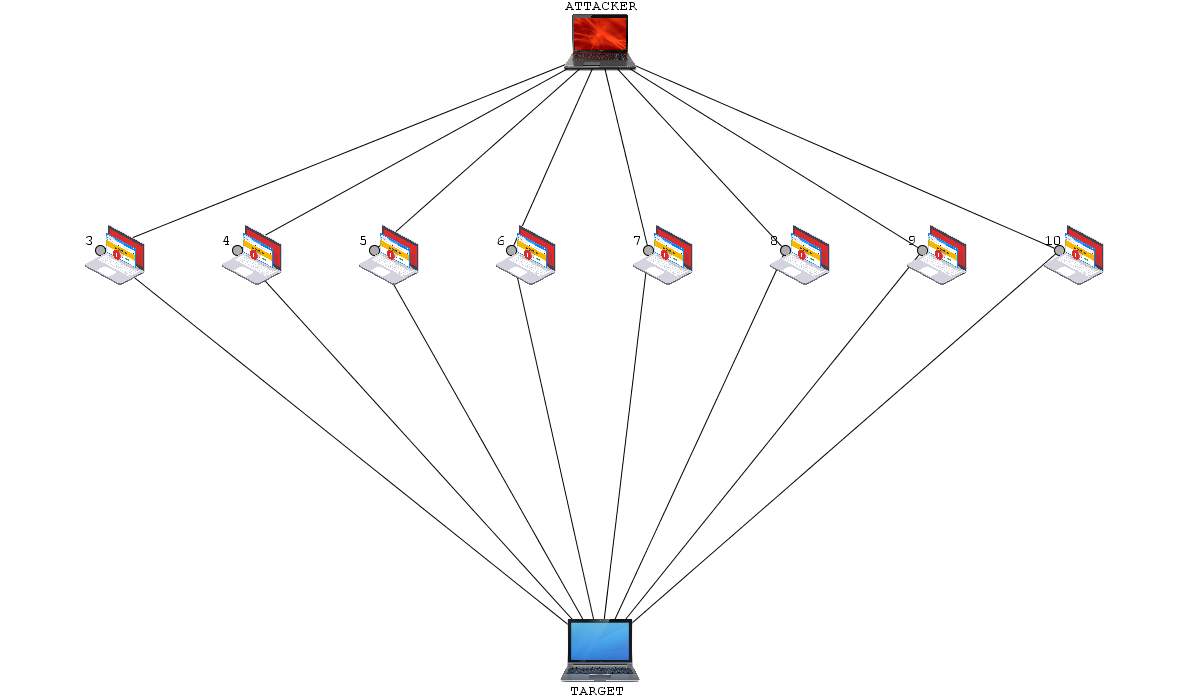
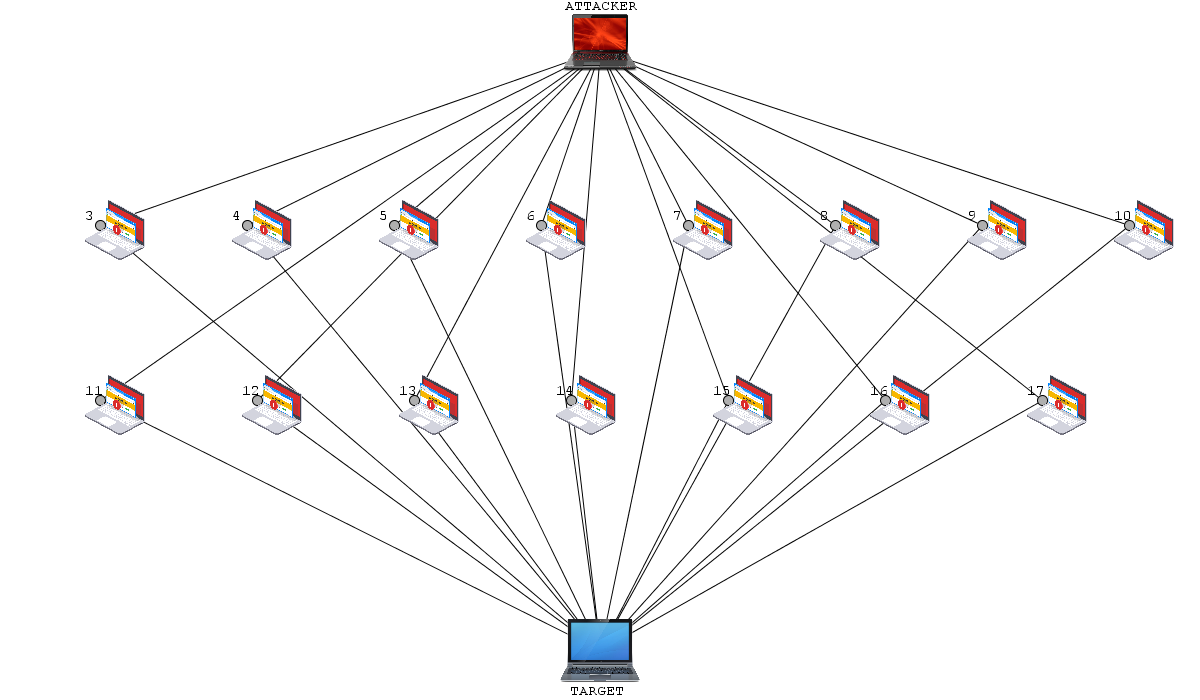
poruka

diff --git a/src/graphic/DDoSSimulation.java b/src/graphic/DDoSSimulation.java
@@ -40,7 +40,7 @@ public class DDoSSimulation {
 		//makePopUpStart();
 		makeWindow(true,true,true,true);
 		procGraphic = new ProcessingSimulation(this);
-		procGraphic.setNumOfSlaves(8);
+		procGraphic.setNumOfSlaves(15);
 		procGraphic.makeNetworkDefault();
 		runSimulation();
 	}
@@ -153,7 +153,7 @@ public class DDoSSimulation {
 												
 		cSlavesConfig.add(new JLabel("Number of slaves:"));		cSlavesConfig.add(numSlavesTF); 	cSlavesConfig.add(dummy7);
 		cSlavesConfig.add(new JLabel("Memory size:"));			cSlavesConfig.add(memoryTF); 		cSlavesConfig.add(dummy8);
-		cSlavesConfig.add(new JLabel("TTL time:"));				cSlavesConfig.add(ttlTF); 			cSlavesConfig.add(dummy9);
+		cSlavesConfig.add(new JLabel("Memory in time:"));		cSlavesConfig.add(ttlTF); 			cSlavesConfig.add(dummy9);
 		cSlavesConfig.add(new JLabel("Package size: "));		cSlavesConfig.add(packagesizeTF); 	cSlavesConfig.add(dummy10);
 																									
 		JButton submitConfiguration = new JButton("Configure");					

diff --git a/src/bin/Package.java b/src/bin/Package.java
@@ -34,11 +34,16 @@ public class Package {
 		int endX = edge.getNodeTo().getX();
 		int endY = edge.getNodeTo().getY();
 		
-		if (Math.ceil(cordX) == endX || Math.ceil(cordY) == endY)
+		//if (Math.ceil(cordX) == endX || Math.ceil(cordY) == endY)
+		//	return true;
+		//if ((cordX < (endX+5) && cordX > (endX-5)) && (cordY < (endY+5) && cordX > (endX-5)))
+		//	return true;
+		//else return false;
+		
+		if ( cordY >= endY )
 			return true;
-		if ((cordX < (endX+5) && cordX > (endX-5)) && (cordY < (endY+5) && cordX > (endX-5)))
-			return true;
-		else return false;
+		else 
+			return false;
 	}
 	
 	public int getType() { return type; }

diff --git a/src/graphic/ProcessingSimulation.java b/src/graphic/ProcessingSimulation.java
@@ -263,7 +263,7 @@ public class ProcessingSimulation extends PApplet{
 			float x = pack.getX();
 			float y = pack.getY();
 			
-			float speedUp = 3;
+			float speedUp = 7;
 			
 			if (currentNumPackages/10 > 0) speedUp = speedUp * currentNumPackages/10;
 			
